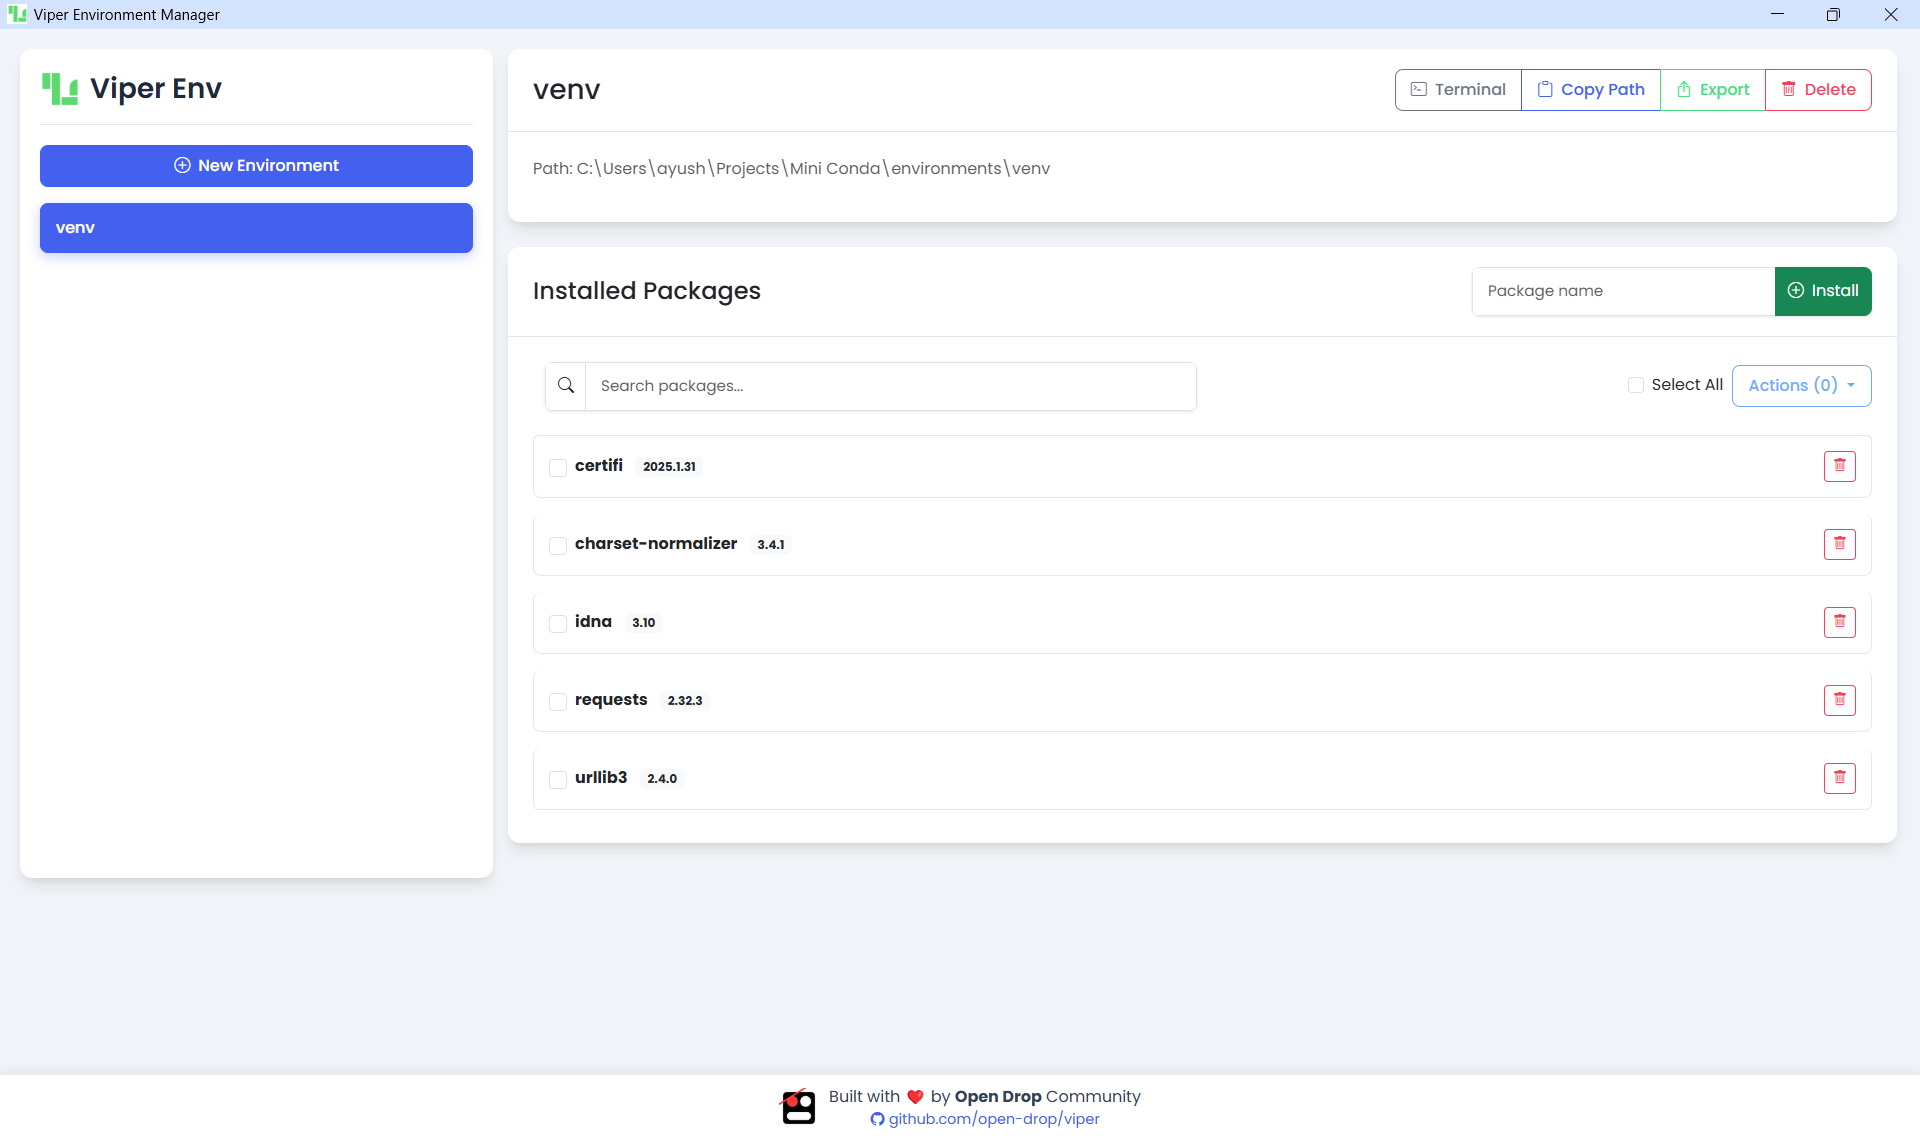
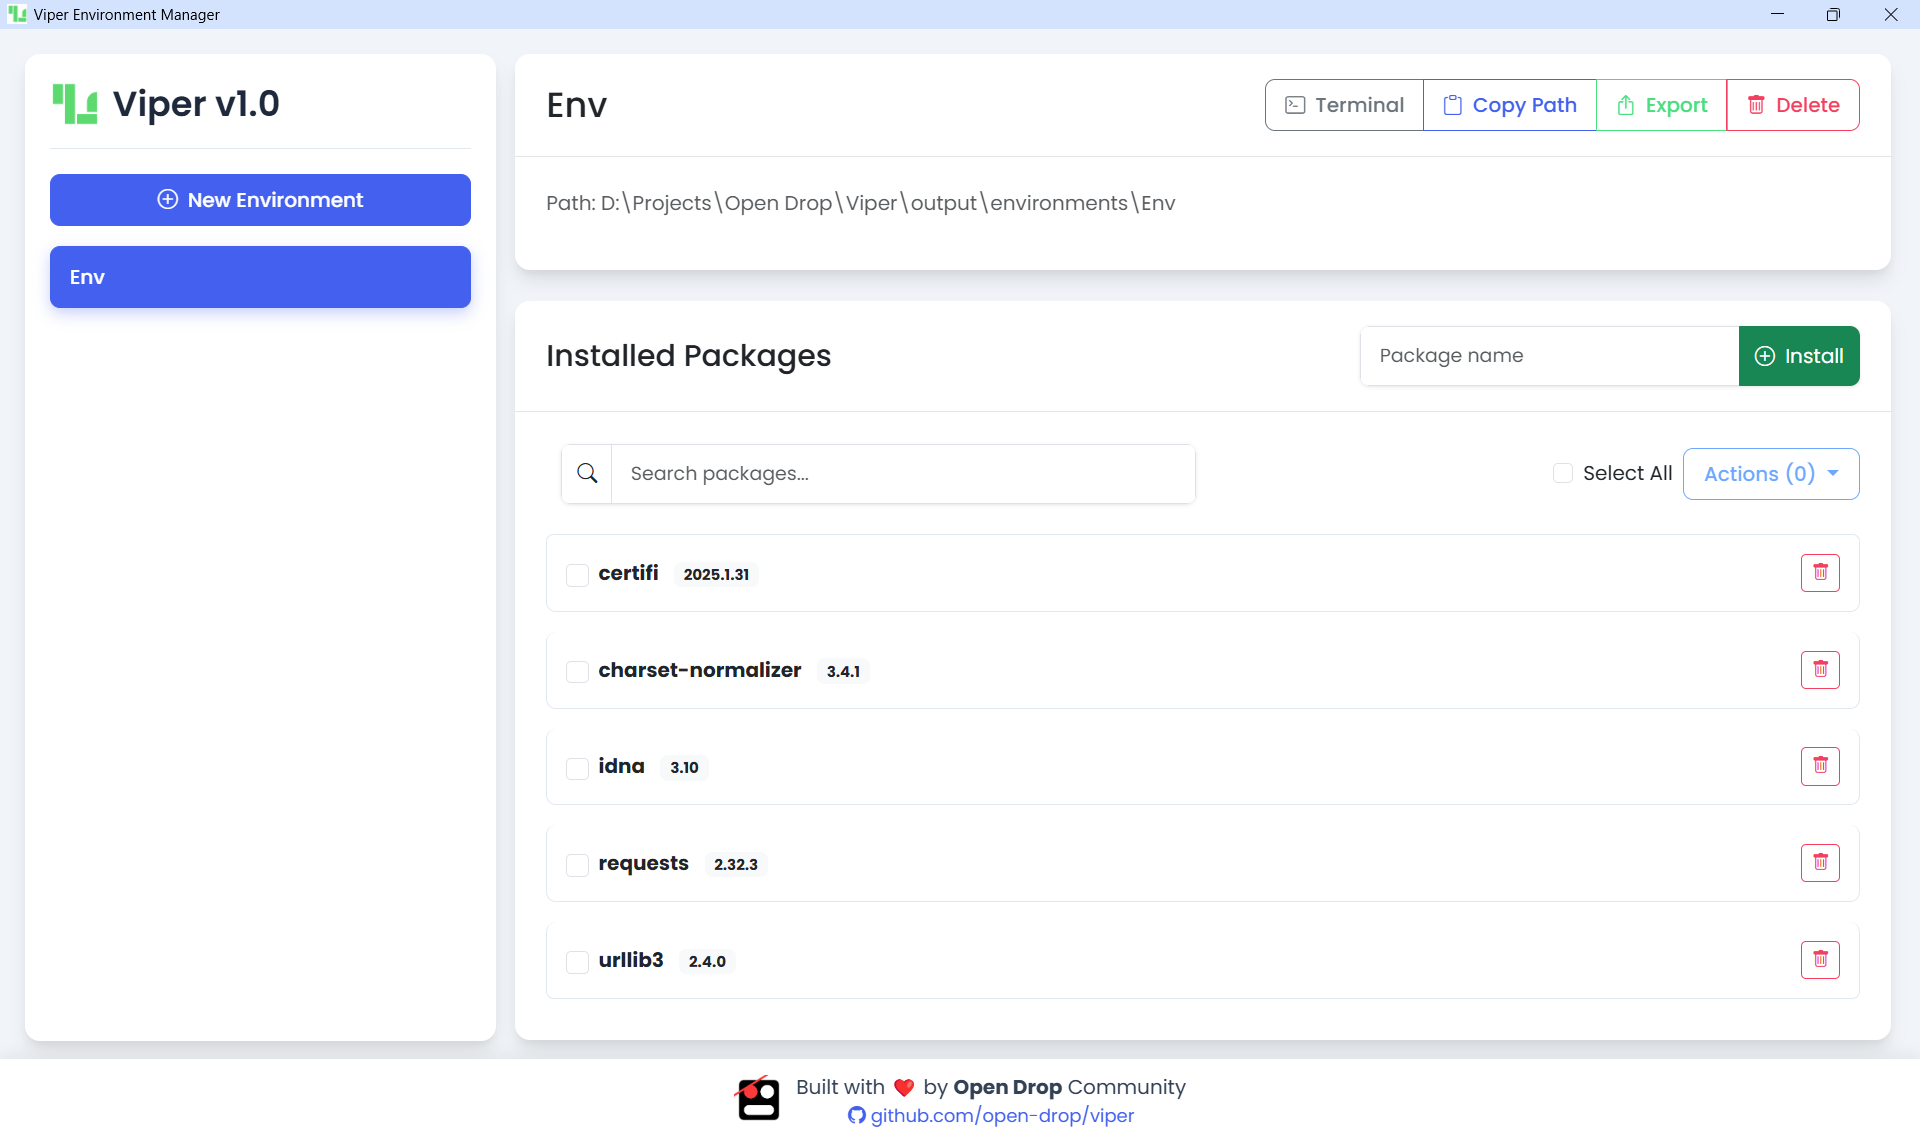
Bug Fix

diff --git a/web/index.html b/web/index.html
@@ -3,7 +3,10 @@
 
 <head>
     <meta charset="UTF-8" />
-    <meta name="viewport" content="width=device-width, initial-scale=1">
+    <meta name="viewport" content="width=device-width, initial-scale=1.0" />
+    <meta name="description" content="Viper Environment Manager" />
+    <meta name="author" content="Open Drop Community" />
+    <meta name="keywords" content="Viper, Environment Manager, Python, Virtual Environments" />
     <title>Viper Environment Manager</title>
     <!-- Favicon -->
     <link rel="icon" type="image/png" href="Viper.png">
@@ -35,7 +38,7 @@
                 <div class="col-md-3 col-lg-3 sidebar">
                     <div class="sidebar-header">
                         <img src="Viper.png" alt="Viper Logo" class="logo">
-                        <h3>Viper Env</h3>
+                        <h3>Viper v1.0</h3>
                     </div>
                     <button class="btn btn-primary w-100 mb-3 create-env-btn" data-bs-toggle="modal"
                         data-bs-target="#newEnvModal">

diff --git a/environment_manager.py b/environment_manager.py
@@ -42,7 +42,7 @@ def create_env(env_name):
         return f"Error: Environment '{env_name}' already exists."
     try:
         # Create environment
-        subprocess.check_call([sys.executable, "-m", "venv", env_path])
+        subprocess.check_call(["python", "-m", "venv", env_path])
         # Add a small delay to ensure filesystem consistency
         time.sleep(0.5)
         return f"Created environment: {env_name}"
@@ -200,7 +200,7 @@ def launch_env_terminal(env_name):
 def start_app():
     """Start the Eel web application"""
     eel.init('web')
-    eel.start('index.html', size=(1000, 700), mode='chrome')
+    eel.start('index.html', size=(1200, 800), mode='chrome')
 
 def parse_arguments():
     """Parse command line arguments"""
